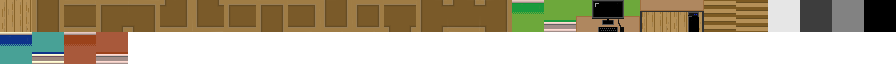
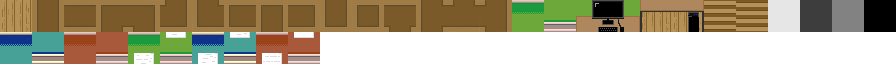
16

Changed region(s): [[0.125, 0.5, 0.375, 1.0]]

diff --git a/game/app/src/main/java/game/main_panel/CCharacter.java b/game/app/src/main/java/game/main_panel/CCharacter.java
@@ -128,7 +128,6 @@ public class CCharacter extends JPanel implements KeyListener,Runnable{
                 map_move(ontile-maps.getMapMoveKey(),x,y);
             } else if((Game_states.getControll_state() & GameUtil.TALK) != GameUtil.TALK) {
                 new Talk("",1, 0);
-                Game_states.updateControll_state((Game_states.getControll_state() & ~GameUtil.PLAY)+GameUtil.TALK);
                 repaint();
             }
         } else if(ontile < 0) {
@@ -208,6 +207,12 @@ public class CCharacter extends JPanel implements KeyListener,Runnable{
             if(key == KeyEvent.VK_SPACE) {
                 switch(hit_tile) {
                     case 24,25 -> Game_states.updateControll_state((Game_states.getControll_state() & ~GameUtil.PLAY)+GameUtil.PC);
+                    case 33 -> new Talk("",1, 5);
+                    case 35 -> new Talk("",1, 9);
+                    case 37 -> new Talk("",1, 7);
+                    case 39 -> new Talk("",1, 6);
+                    case 41 -> new Talk("",1, 10);
+                    case 43 -> new Talk("",1, 8);
                 }
             }
             if(key == KeyEvent.VK_BACK_QUOTE) {
@@ -240,7 +245,6 @@ public class CCharacter extends JPanel implements KeyListener,Runnable{
         if(prologue){
             sleep(2000);
             new Talk("",0,18);
-            Game_states.updateControll_state((Game_states.getControll_state() & ~GameUtil.PLAY)+GameUtil.TALK);
             prologue = false;
         }
         while(Game_states.getControll_state() != GameUtil.GAME_EXIT && Game_states.getControll_state() != GameUtil.GAME_CLEAR) {

diff --git a/game/app/src/main/java/game/panel/Inventory_paint.java b/game/app/src/main/java/game/panel/Inventory_paint.java
@@ -114,11 +114,9 @@ public class Inventory_paint {
                     int taken_item = maps.ref_key_item(xxx,yyy);
                     int setslot = item.setInventory(taken_item,getInventoryIndex());
                     if(setslot == -1)  {
-                        Game_states.updateControll_state((Game_states.getControll_state() & ~GameUtil.PLAY)+GameUtil.TALK);
                         new Talk("",1, 4);
                     } else {
                         maps.take_key_item(xxx, yyy);
-                        Game_states.updateControll_state((Game_states.getControll_state() & ~GameUtil.PLAY)+GameUtil.TALK);
                         new Talk(item.item_name(Game_states.getInventory(setslot)),1, 2);
                     }
                     break;
@@ -132,10 +130,8 @@ public class Inventory_paint {
                 }
             }
             if(door_open) {
-                Game_states.updateControll_state((Game_states.getControll_state() & ~GameUtil.PLAY)+GameUtil.TALK);
                 new Talk(item.item_name(Game_states.getInventory(index)),1, 1);
             } else if(diff_key){
-                Game_states.updateControll_state((Game_states.getControll_state() & ~GameUtil.PLAY)+GameUtil.TALK);
                 new Talk("",1, 3);
             }
         }

diff --git a/game/app/src/main/java/game/main_panel/Maps.java b/game/app/src/main/java/game/main_panel/Maps.java
@@ -133,10 +133,16 @@ private String[] map_list = {"/map0.csv",
                     case 24: x2 = 640;   break;
                     case 25: x2 = 672;   break;
                     case 27: x2 = 832;   break;
-                    case 28: x2 = 0;  y2 = 32;  break;
-                    case 29: x2 = 32; y2 = 32;  break;
-                    case 30: x2 = 64; y2 = 32;  break;
-                    case 31: x2 = 96; y2 = 32;  break;
+                    case 28: x2 = 0;   y2 = 32;  break;
+                    case 29: x2 = 32;  y2 = 32;  break;
+                    case 30: x2 = 64;  y2 = 32;  break;
+                    case 31: x2 = 96;  y2 = 32;  break;
+                    case 32,38: x2 = 128; y2 = 32;  break;//ここから壁の紙
+                    case 33,39: x2 = 160; y2 = 32;  break;
+                    case 34,40: x2 = 192; y2 = 32;  break;
+                    case 35,41: x2 = 224; y2 = 32;  break;
+                    case 36,42: x2 = 256; y2 = 32;  break;
+                    case 37,43: x2 = 288; y2 = 32;  break;
                     default: continue;
                 }
                 g.drawImage(mapImage, x1, y1, x1+tile, y1+tile,x2, y2, x2+tile, y2+tile, null);

diff --git a/game/app/src/main/java/game/logic/Talk.java b/game/app/src/main/java/game/logic/Talk.java
@@ -3,10 +3,13 @@ package game.logic;
 import java.io.BufferedReader;
 import java.io.FileReader;
 import java.io.IOException;
+
+import game.util.GameUtil;
 public class Talk {
     private String message_list[] = {"/prologue.dat","/message1.dat"};
     private static String main_message[] = new String[1];
     public Talk(String itemname,int file_index, int message_id) {
+        Game_states.updateControll_state((Game_states.getControll_state() & ~GameUtil.PLAY)+GameUtil.TALK);
         main_message = messageread(itemname,file_index, message_id);
     }
     public static String[] getMainMessage() {
